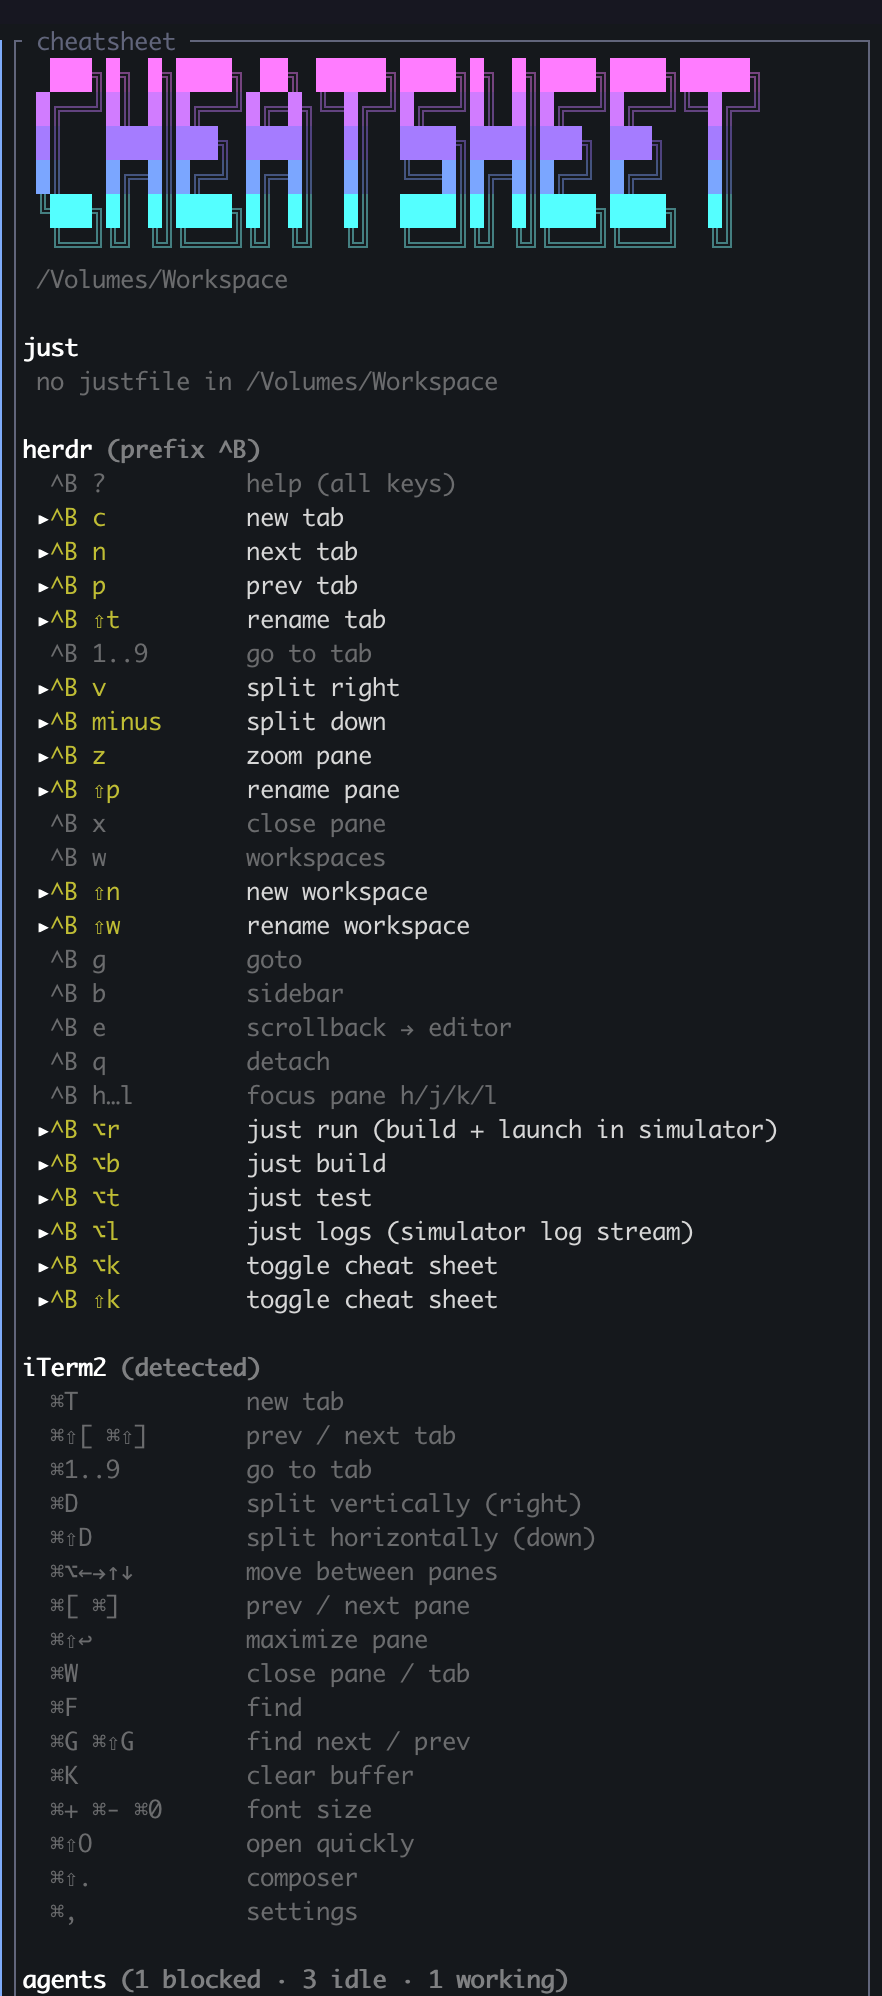
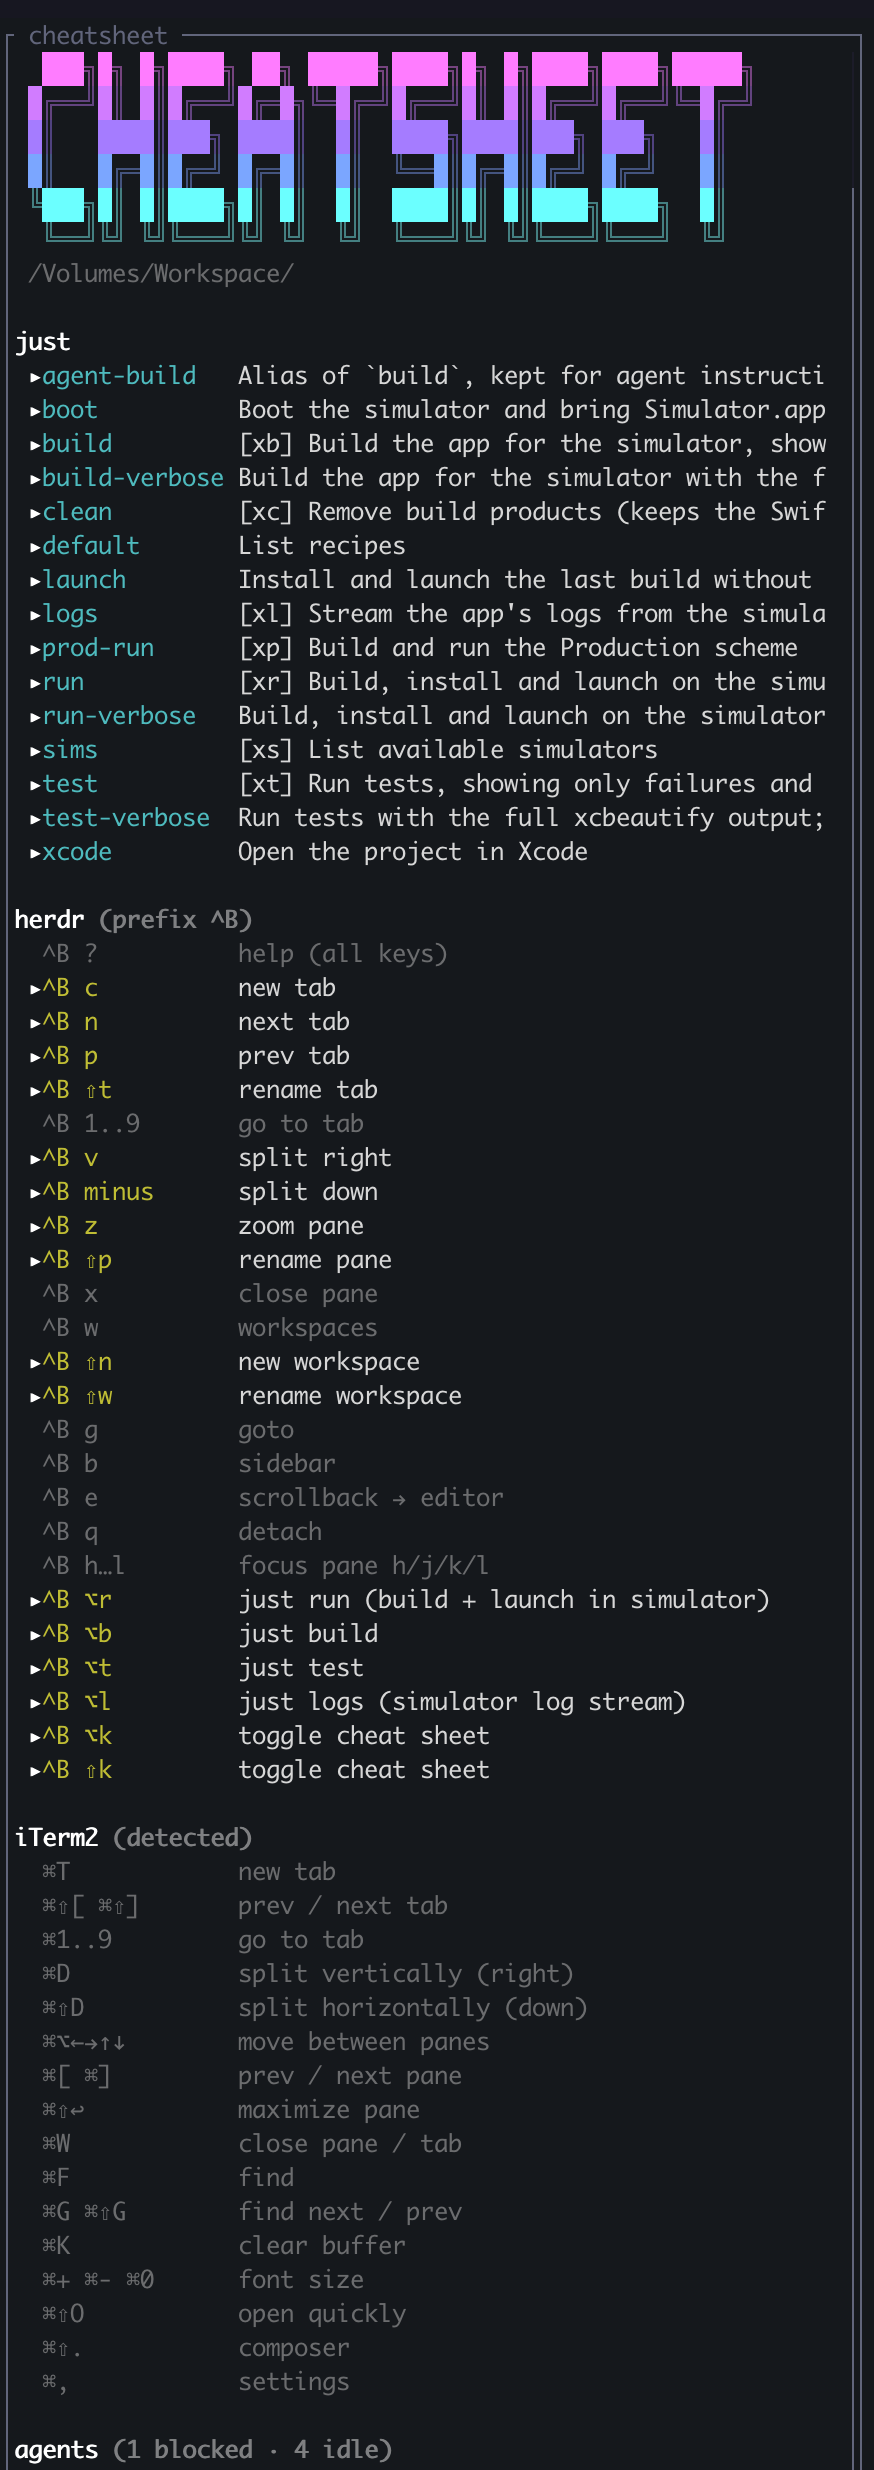
Update README screenshot with the just recipes section

diff --git a/README.md b/README.md
@@ -1,7 +1,7 @@
 # herdr-cheatsheet
 
 <p align="center">
-  <img src="docs/screenshot.png" alt="The cheat-sheet panel: CHEATSHEET banner, herdr keybindings, detected iTerm2 shortcuts and the agent overview" width="420">
+  <img src="docs/screenshot.png" alt="The cheat-sheet panel: CHEATSHEET banner, just recipes, herdr keybindings, detected iTerm2 shortcuts and the agent overview" width="420">
 </p>
 
 A clickable cheat-sheet panel for [herdr](https://herdr.dev). It docks on the right of your tabs and shows:
